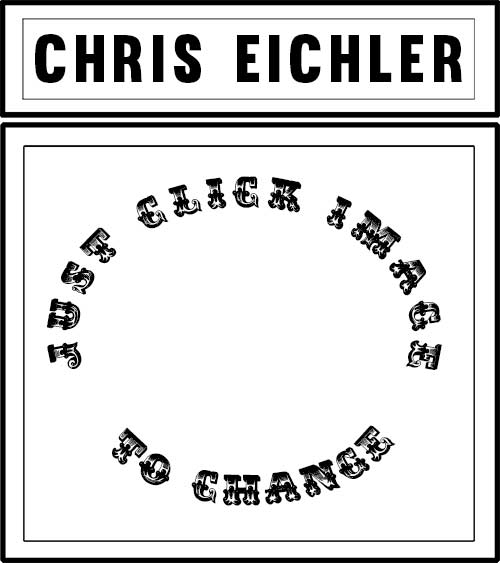
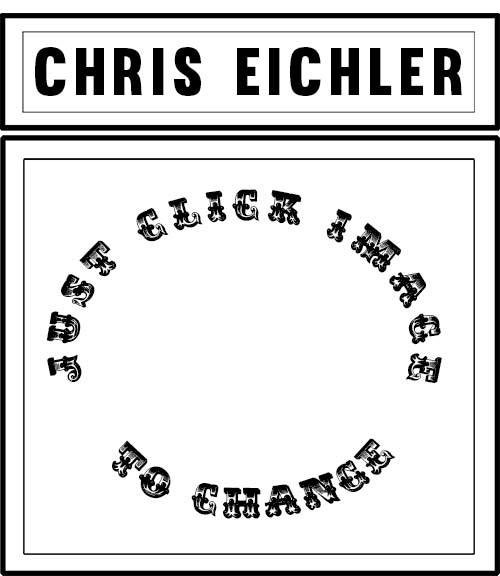
made jquery resizing work basically, and resizing back at over 800, by adjusting the width and left values of divs

diff --git a/index.html b/index.html
@@ -1,27 +1,24 @@
 <!DOCTYPE html>
 <html>
   <head>
-      <link rel="stylesheet" type="text/css" href="style.css">
-      <link rel="shortcut icon" href="favicon.ico" type="image/x-icon" />
-      <script src="http://code.jquery.com/jquery-1.10.0.min.js"></script>
-      <script type="text/javascript" src="./portfolio.js"></script>
-      <title>Chris Eichler</title>
-    </head>
-    <body>
-      <div id="maincontainer">
-
-          <!--  <section id="containera">
-          <section id="ad"></section>
-          <div class="a" > -->
-            
-
-
-<div id="title_section">
-  <section id="ts_d"></section>
-  <div class="ts">
-  </div>
-</div>
-
+    <link rel="stylesheet" type="text/css" href="style.css">
+    <link rel="shortcut icon" href="favicon.ico" type="image/x-icon" />
+    <script src="http://code.jquery.com/jquery-1.10.0.min.js"></script>
+    <script type="text/javascript" src="./portfolio.js"></script>
+    <title>Chris Eichler</title>
+  </head>
+  <body>
+    <div id="maincontainer">
+      <!--  <section id="containera">
+      <section id="ad"></section>
+      <div class="a" > -->
+        
+      <div id="title_section">
+        <section id="ts_d"></section>
+        <div class="ts">
+        </div>
+      </div>
+      
       <section id="containere">
       <section id="ed"></section>
       <div class="e">
@@ -34,7 +31,6 @@
       <p><a href="#">designer</a></p>
       <p><a href="#images">photographer</a></p> -->
     </section>
-
     <br>
     <br>
     <br>
@@ -79,12 +75,12 @@
   <p>(202) 486-0073</p>
   <p>Brooklyn, NY</p>
   <p><a href="https://github.com/chriseichler" id="gh"><img src="./GitHub32px.png">Github</a></p>
-  <p><a href="http://www.linkedin.com/in/chriseichler"><img src="LinkedIn_Logo30px.png">Linked In</a></p>  </section>
-  <br>
-  <br>
-  <div id="returnclick">
+<p><a href="http://www.linkedin.com/in/chriseichler"><img src="LinkedIn_Logo30px.png">Linked In</a></p>  </section>
+<br>
+<br>
+<div id="returnclick">
   <p>Click to Return</p>
-  </div>
+</div>
 </div>
 </div>
 </body>

diff --git a/portfolio.js b/portfolio.js
@@ -15,4 +15,29 @@ $(function() {
   });
 });
 
+$(window).resize(function(){
+  if ($(window).width() <= 800){  
+    // do something here
+    $('#title_section').css("width", "78%");
+    $('#title_section').css("left", "11%");
+    $('#containere').css("left", "18%");
+  } 
+});
+
+$(window).resize(function(){
+  if ($(window).width() >= 800){  
+    // do something here
+    $('#title_section').css("width", "40%");
+    $('#title_section').css("left", "8%");
+    $('#containere').css("left", "13%");
+  } 
+});
+
+// $(window).resize(function(){
+//   if ($(window).width() >= 800){  
+//     // do something here
+//     $('#title_section').remove('<br />');
+//   } 
+// });
+
   // $(#containerf).append('<br>')

diff --git a/style.css b/style.css
@@ -66,7 +66,7 @@
 }
 
 #ts_d {
-  padding-top: 112%;
+  padding-top: 116%;
 }
 
 /*
